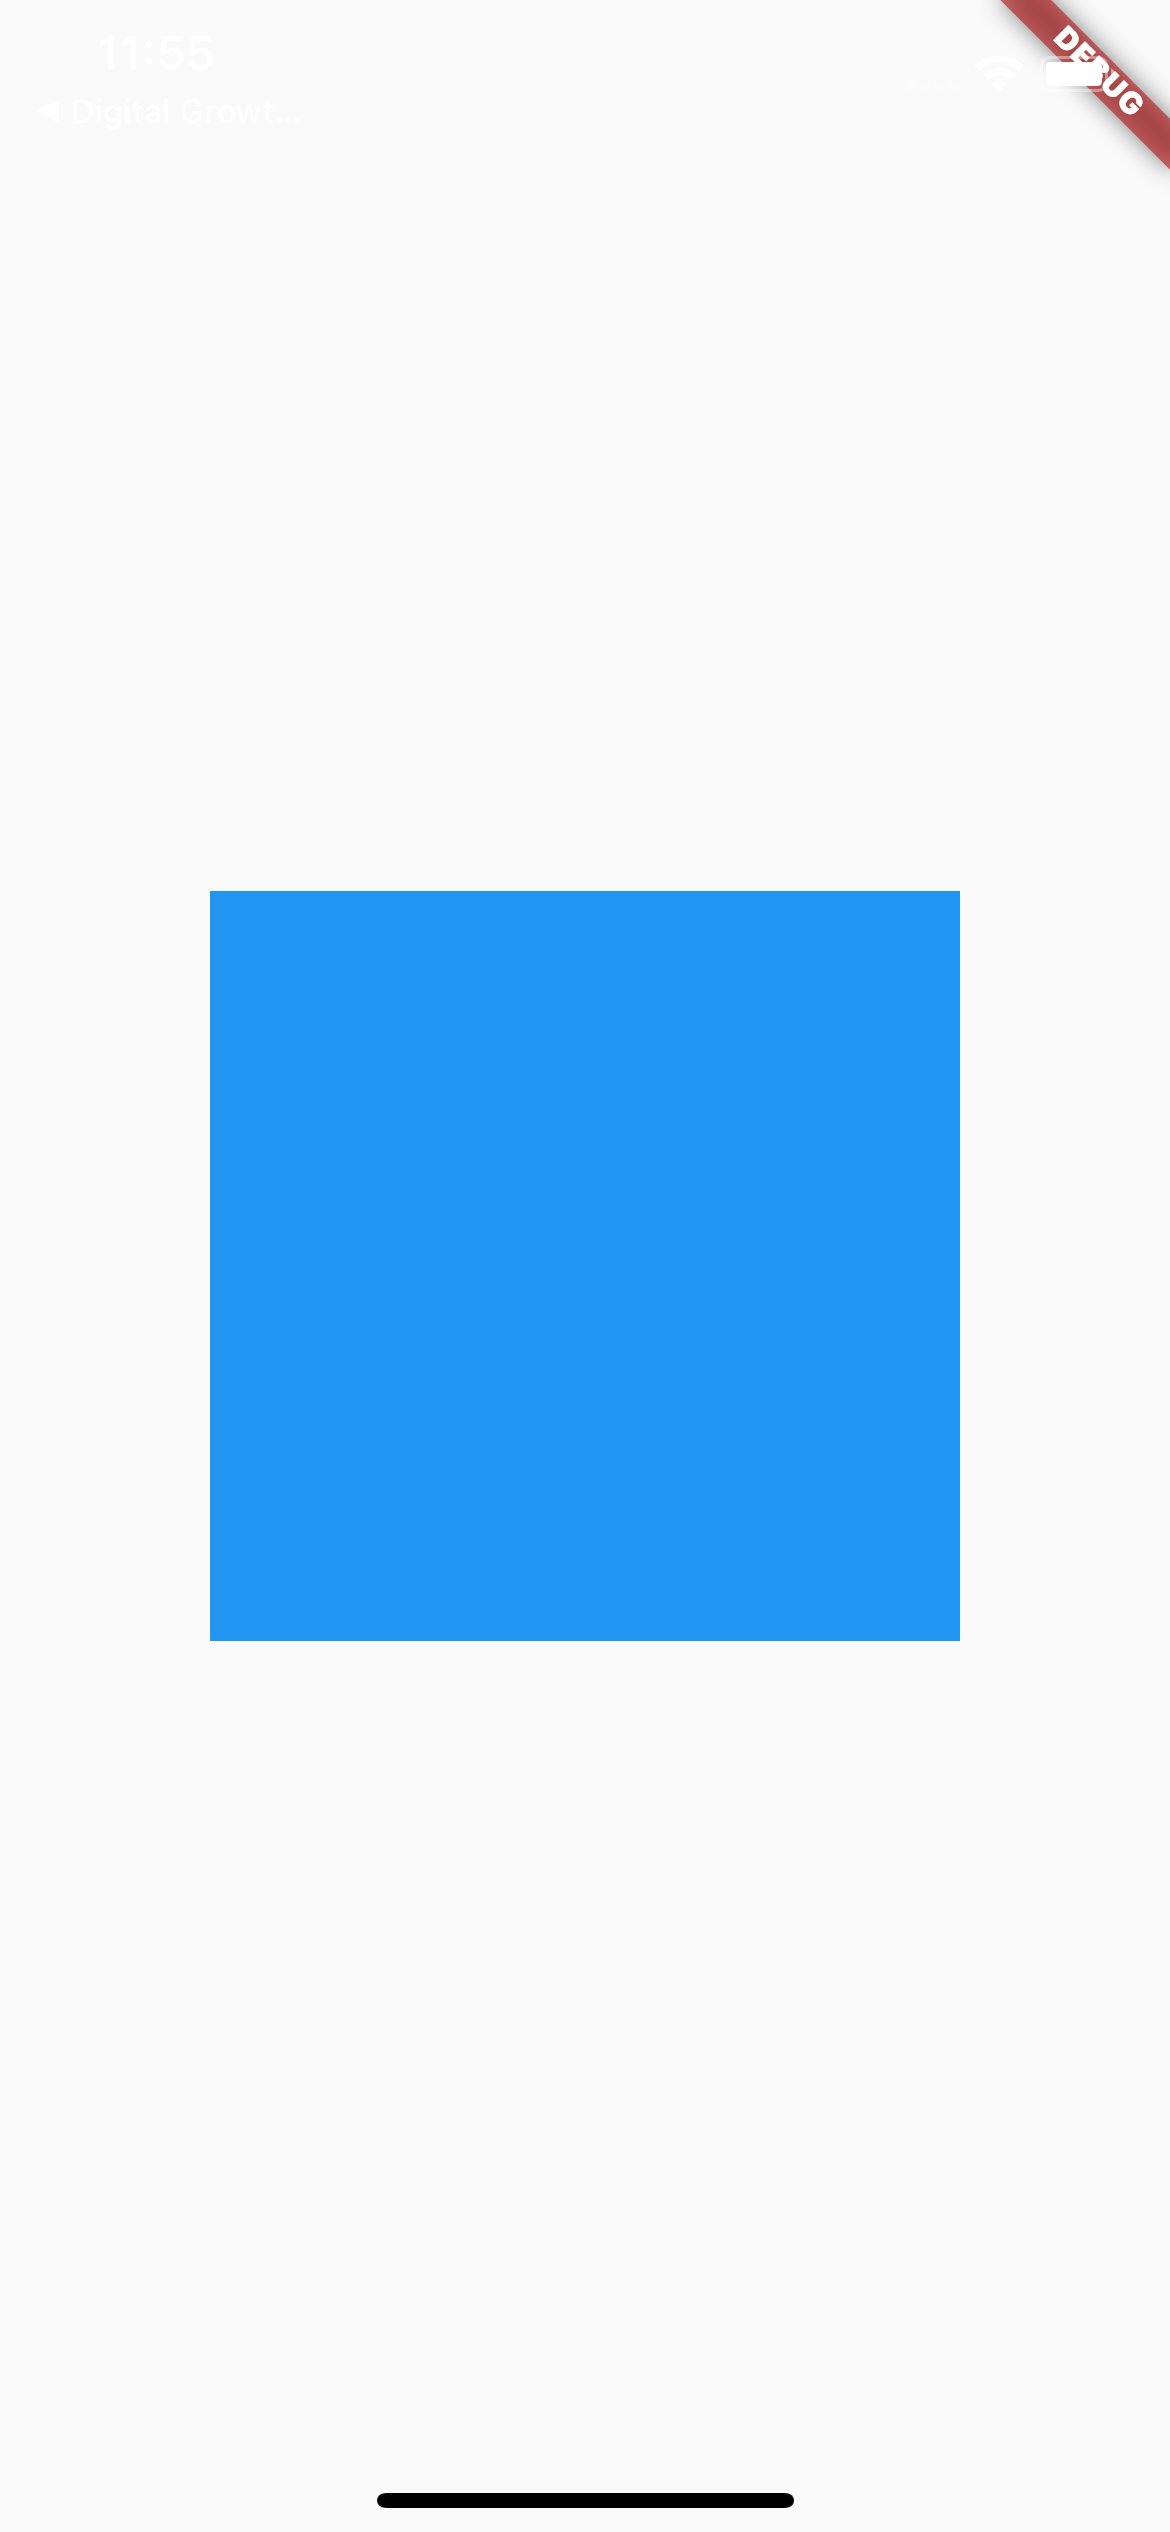
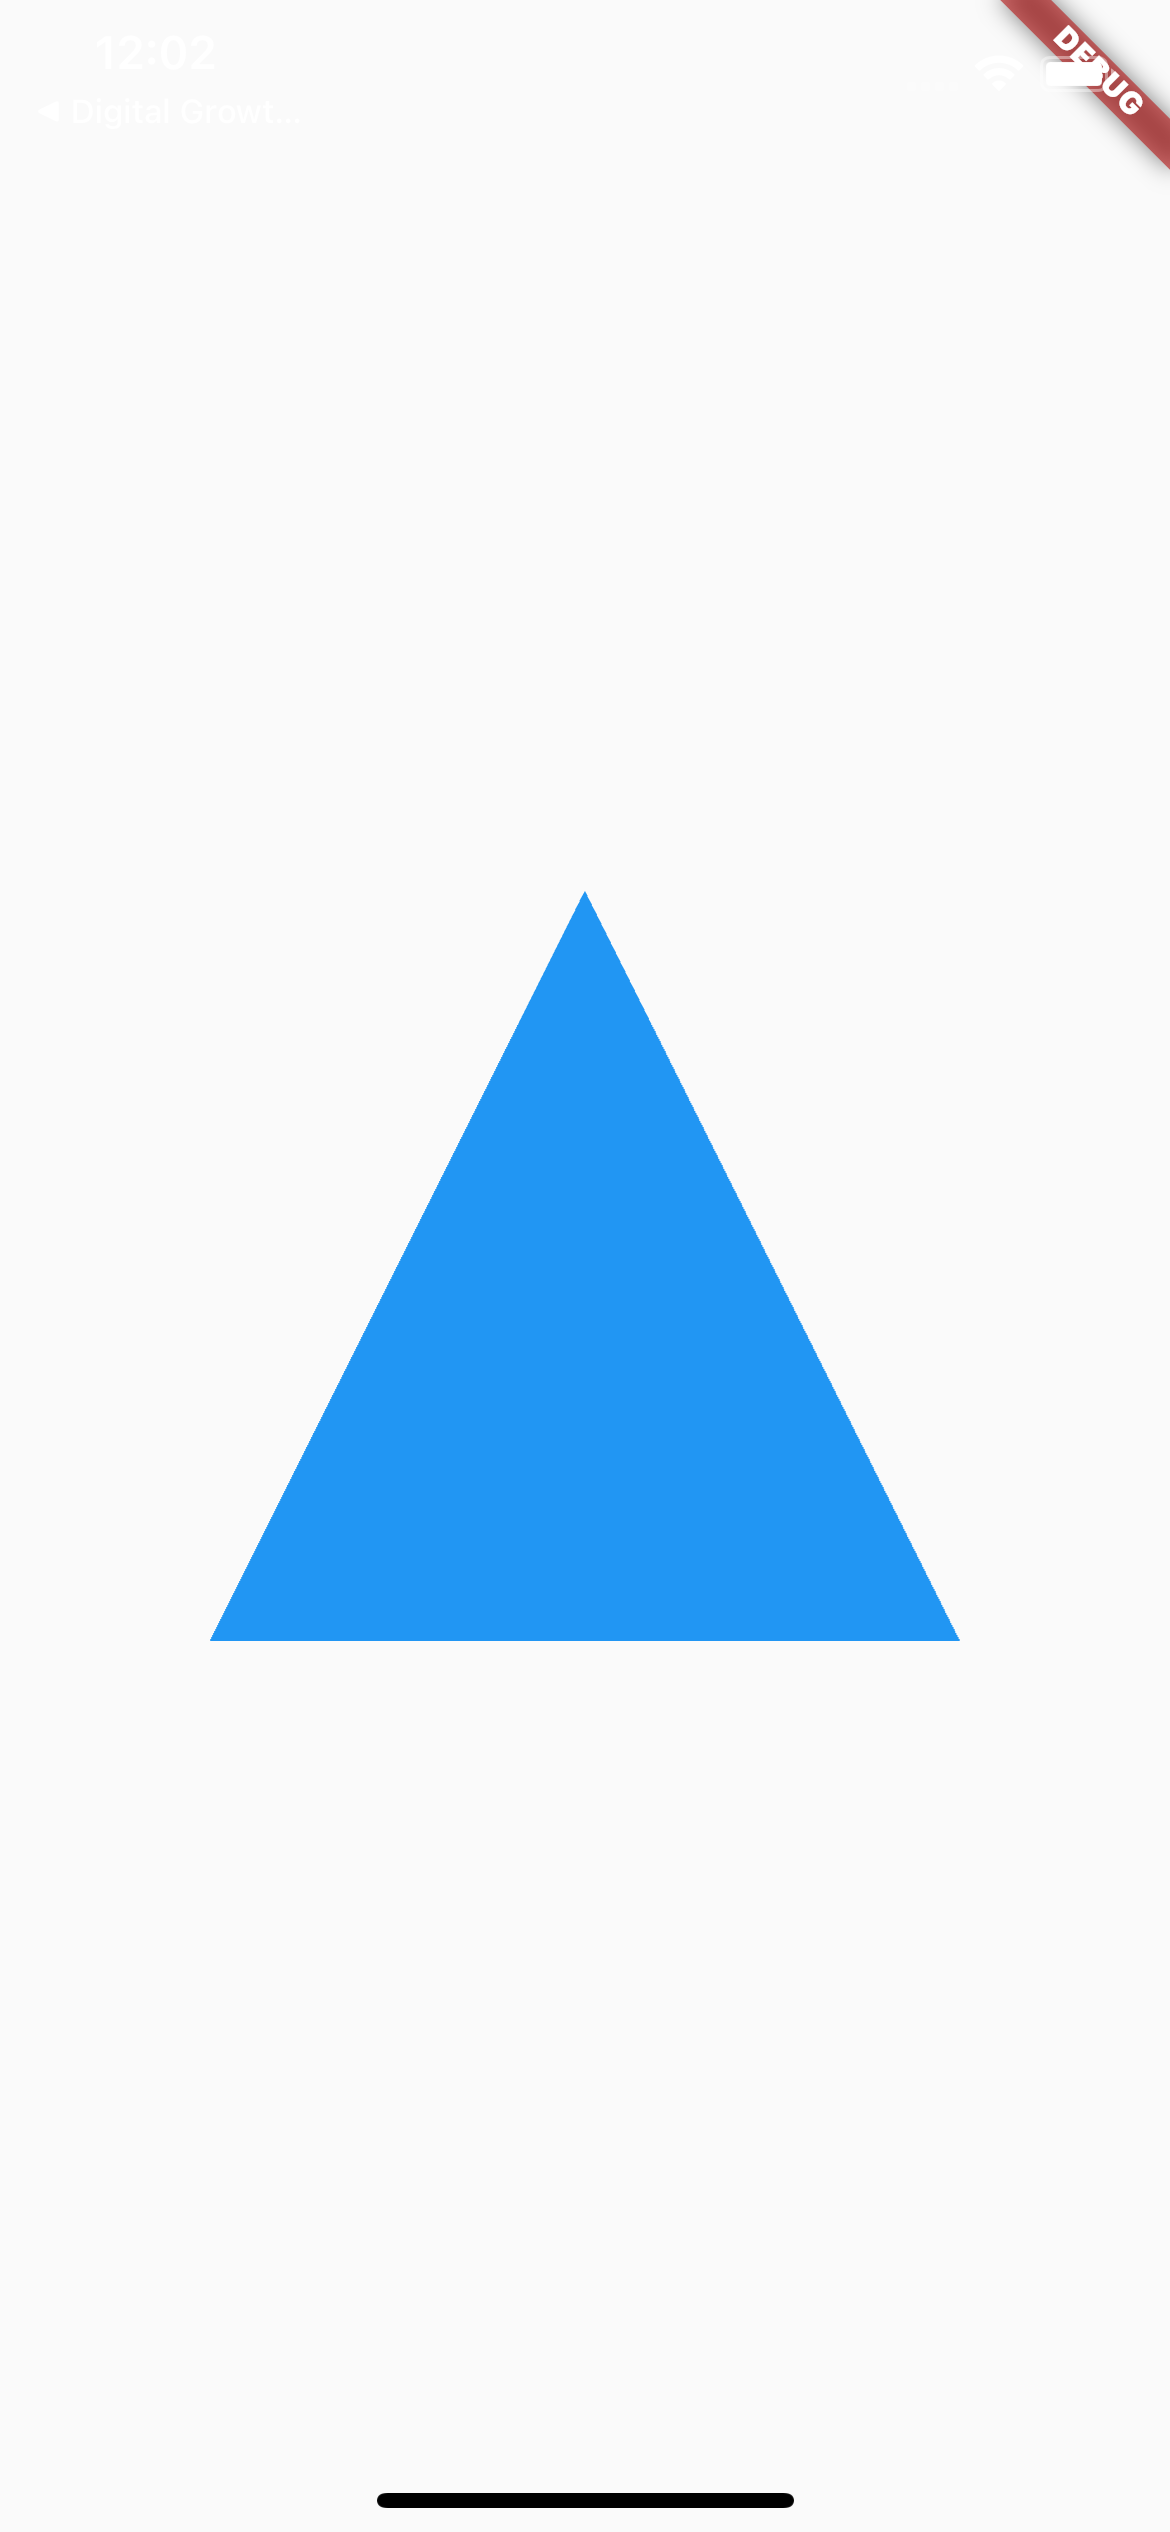
triangle shape

Changed region(s): [[0.1538, 0.3432, 0.8308, 0.6552]]

diff --git a/lib/main.dart b/lib/main.dart
@@ -40,11 +40,12 @@ class CustomDesgin extends CustomClipper<Path>{
   Path getClip(Size size) {
 
     Path path=Path();
-    // path ,lineTo is used to create the stright line from x to y
-    path.lineTo(0, 0);
-    path.lineTo(0,size.height);
-    path.lineTo(size.height, size.width);
-    path.lineTo(size.width, 0);
+    // here we are moving our point to certain place
+    // by doing that we will assign the new value to its pointg
+   path.moveTo(size.width/2, 0);
+   path.lineTo(0, size.height);
+   path.lineTo(size.height, size.width);
+   path.close();
 
     return path;
 
